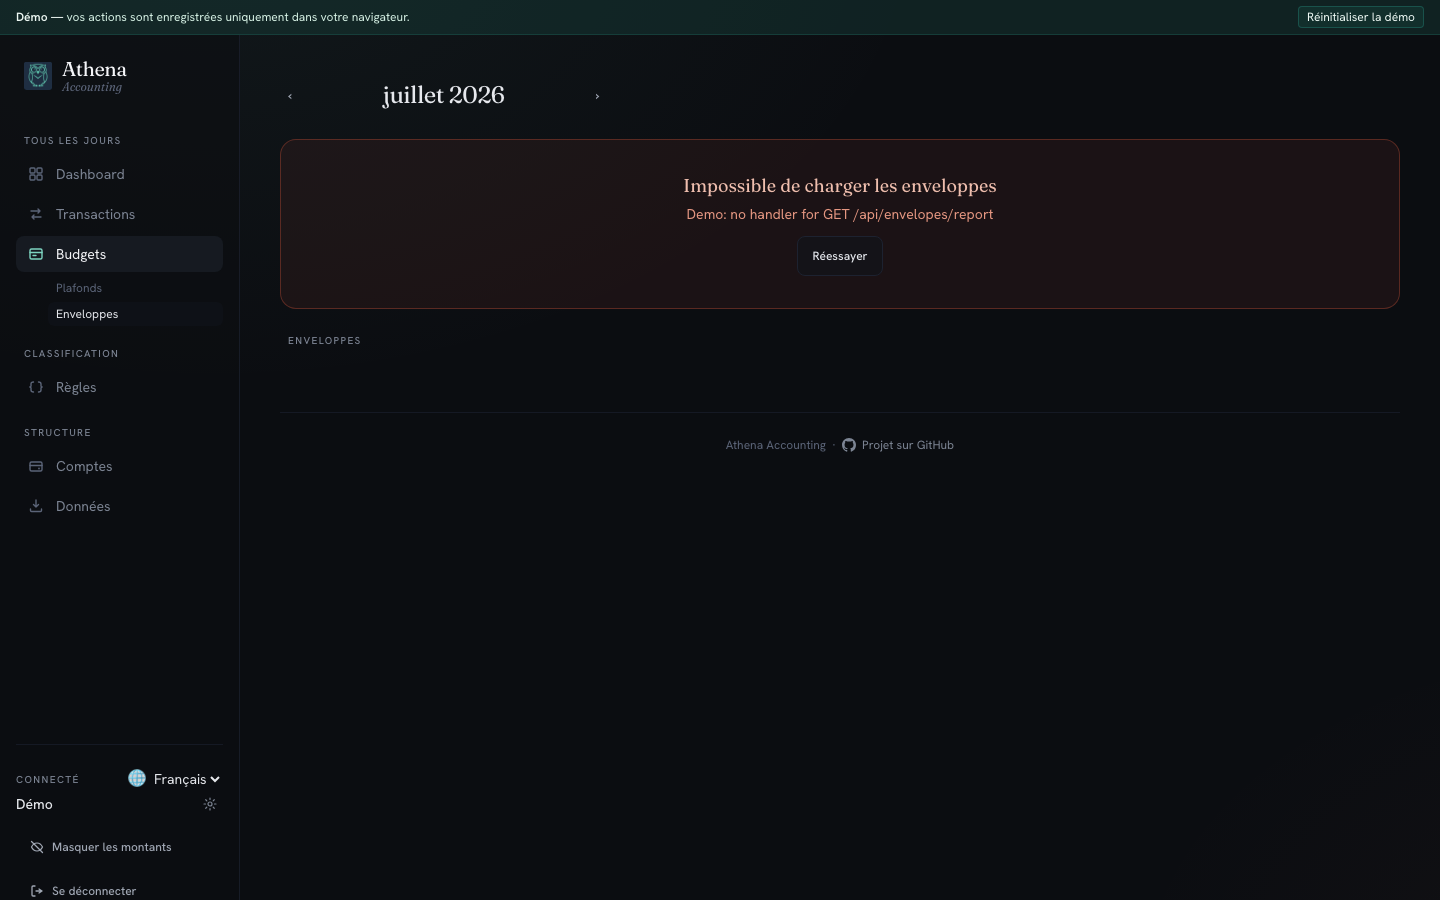
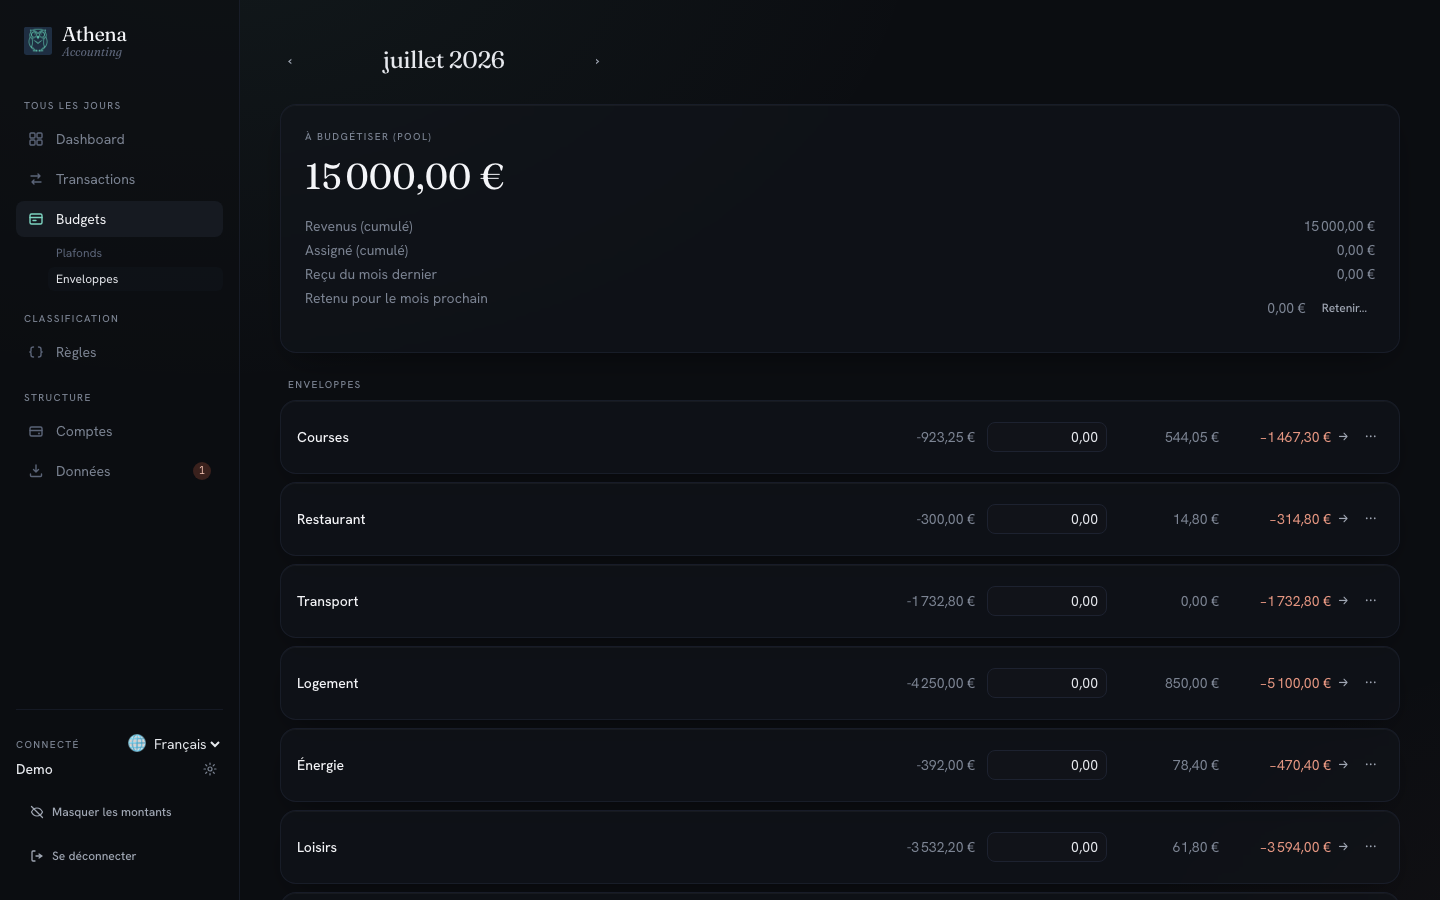
docs(users): re-shoot budget walkthrough against the real backend
budget-02-enveloppes.png on gh-pages showed the raw "no handler for
GET /api/envelopes/report" error state because the demo build stubs
that endpoint. Re-shot all three set-a-budget PNGs against a real
Athena instance with the Demo account seeded so the walkthrough
finally matches what a first-time reader gets after installing:

- budget-01-plafonds.png — real "620,65 € / 650,00 €" progress with
  the "à ce rythme, dépassement de 418,89 €" projection, Courses
  in dépassement + Ajuster suggestion, Loisirs in surveillance.
- budget-02-enveloppes.png — real pool (À BUDGÉTISER 15 000 €) plus
  six envelopes (Courses / Restaurant / Transport / Logement /
  Énergie / Loisirs) with actual current balances.
- budget-03-dashboard-progress.png — real solde net (12 150,82 €),
  moyennes mensuelles, and Insights (dépenses de juin, dépassement,
  hausse Loisirs, baisse Transport).

Playwright plumbing added so future re-shoots aren't manual:

- playwright.config.ts skips the VITE_DEMO webServer when
  WALKTHROUGH_LOCAL_URL is set and uses that URL as baseURL instead.
- walkthrough-screenshots.spec.ts logs in via WALKTHROUGH_LOCAL_USER
  / WALKTHROUGH_LOCAL_PASS in a beforeEach guard, then dismisses the
  welcome tour before capturing.

Credentials + LAN URL flow only through env vars at run time — never
committed.

diff --git a/frontend/playwright.config.ts b/frontend/playwright.config.ts
@@ -7,8 +7,14 @@ import { defineConfig, devices } from '@playwright/test';
 // so tests can navigate to `/` directly. VITE_DEMO=1 is set both by the
 // `build:demo` script and here explicitly for `vite preview`, which reloads
 // the config and needs the same env to serve at the overridden base.
+//
+// Real-backend override: set WALKTHROUGH_LOCAL_URL=http://host:port to point
+// the suite at a running Athena instance instead of the demo build. When set,
+// no webServer is booted and baseURL becomes the env value. Used to re-shoot
+// walkthrough PNGs against real data (see walkthrough-screenshots.spec.ts).
 
 const PORT = 4173;
+const LOCAL_URL = process.env.WALKTHROUGH_LOCAL_URL;
 
 export default defineConfig({
   testDir: './e2e',
@@ -18,20 +24,24 @@ export default defineConfig({
   retries: process.env.CI ? 1 : 0,
   reporter: process.env.CI ? [['list'], ['html', { open: 'never' }]] : 'list',
   use: {
-    baseURL: `http://localhost:${PORT}`,
+    baseURL: LOCAL_URL ?? `http://localhost:${PORT}`,
     trace: 'on-first-retry',
     video: 'retain-on-failure',
   },
-  webServer: {
-    command: `npm run build:demo && npx vite preview --port ${PORT} --strictPort`,
-    url: `http://localhost:${PORT}/`,
-    reuseExistingServer: !process.env.CI,
-    timeout: 180_000,
-    env: {
-      VITE_DEMO: '1',
-      VITE_DEMO_BASE: '/',
-    },
-  },
+  ...(LOCAL_URL
+    ? {}
+    : {
+        webServer: {
+          command: `npm run build:demo && npx vite preview --port ${PORT} --strictPort`,
+          url: `http://localhost:${PORT}/`,
+          reuseExistingServer: !process.env.CI,
+          timeout: 180_000,
+          env: {
+            VITE_DEMO: '1',
+            VITE_DEMO_BASE: '/',
+          },
+        },
+      }),
   projects: [
     { name: 'chromium', use: { ...devices['Desktop Chrome'] } },
   ],

diff --git a/frontend/e2e/walkthrough-screenshots.spec.ts b/frontend/e2e/walkthrough-screenshots.spec.ts
@@ -11,6 +11,12 @@ const __dirname = path.dirname(__filename);
 // Set WALKTHROUGH_SHOTS=1 to opt in; the default suite (demo.spec.ts) skips it.
 
 const SHOULD_RUN = process.env.WALKTHROUGH_SHOTS === '1';
+// Real-backend mode: WALKTHROUGH_LOCAL_URL points playwright.config's
+// baseURL at a running Athena instance instead of the demo build. When set,
+// we also need to log in as the demo user first (WALKTHROUGH_LOCAL_USER /
+// WALKTHROUGH_LOCAL_PASS). Credentials are read at run time only — never
+// committed.
+const LOCAL_MODE = process.env.WALKTHROUGH_LOCAL_URL !== undefined && process.env.WALKTHROUGH_LOCAL_URL !== '';
 
 const OUT_DIR = path.resolve(
   __dirname,
@@ -50,6 +56,21 @@ test.describe('walkthrough screenshots', () => {
     await page.addInitScript(() => {
       try { localStorage.setItem('i18nextLng', 'fr'); } catch { /* noop */ }
     });
+    if (LOCAL_MODE) {
+      const user = process.env.WALKTHROUGH_LOCAL_USER;
+      const pass = process.env.WALKTHROUGH_LOCAL_PASS;
+      if (!user || !pass) {
+        throw new Error('WALKTHROUGH_LOCAL_URL is set but WALKTHROUGH_LOCAL_USER / WALKTHROUGH_LOCAL_PASS are missing.');
+      }
+      await page.goto('/login');
+      await page.locator('input[autocomplete="username"]').fill(user);
+      await page.locator('input[type="password"]').fill(pass);
+      await page.getByRole('button', { name: /Se connecter|Log in/i }).click();
+      // Login mutation navigates to '/' on success — wait for it explicitly
+      // so downstream page.goto() calls don't race the auth redirect.
+      await page.waitForURL('**/', { timeout: 10_000 });
+      await dismissWelcomeTour(page);
+    }
   });
 
   test('import-a-statement', async ({ page }) => {